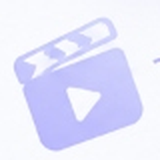
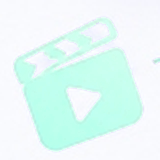
Update review page theme color to website cyan blue (#04ADFE) matching navigation bar

diff --git a/src/styles/index.css b/src/styles/index.css
@@ -8045,7 +8045,7 @@ body.offers-modal-active {
    EXACT REVIEWS SHOWCASE REDESIGN (IMAGE 2 MATCH)
    ========================================================================== */
 .review-exact-showcase-section {
-  background: linear-gradient(180deg, #f9fafd 0%, #f1f4ff 50%, #f4f8fd 100%);
+  background: linear-gradient(180deg, #f8fcff 0%, #eef8ff 50%, #f4faff 100%);
   padding: 4.5rem 0 4rem;
   position: relative;
   overflow: hidden;
@@ -8058,9 +8058,9 @@ body.offers-modal-active {
   inset: 0;
   pointer-events: none;
   background: 
-    radial-gradient(circle at 10% 20%, rgba(196, 181, 253, 0.4) 0%, transparent 45%),
-    radial-gradient(circle at 90% 15%, rgba(167, 139, 250, 0.35) 0%, transparent 45%),
-    radial-gradient(circle at 50% 90%, rgba(199, 210, 254, 0.4) 0%, transparent 50%);
+    radial-gradient(circle at 10% 20%, rgba(4, 173, 254, 0.18) 0%, transparent 48%),
+    radial-gradient(circle at 90% 15%, rgba(56, 189, 248, 0.22) 0%, transparent 48%),
+    radial-gradient(circle at 50% 90%, rgba(186, 230, 253, 0.45) 0%, transparent 55%);
 }
 
 .review-exact-container {
@@ -8111,7 +8111,7 @@ body.offers-modal-active {
 }
 
 .review-hero-poster-wrap:focus-visible {
-  box-shadow: 0 0 0 3px #6366f1;
+  box-shadow: 0 0 0 3px #04ADFE;
 }
 
 .review-exact-phone-img {
@@ -8119,7 +8119,7 @@ body.offers-modal-active {
   height: 100%;
   display: block;
   object-fit: contain;
-  filter: drop-shadow(0 14px 28px rgba(99, 102, 241, 0.14));
+  filter: drop-shadow(0 14px 28px rgba(4, 173, 254, 0.18));
   pointer-events: none;
   user-select: none;
 }
@@ -8148,7 +8148,7 @@ body.offers-modal-active {
   position: absolute;
   inset: -6px;
   border-radius: 50%;
-  background: rgba(99, 102, 241, 0.32);
+  background: rgba(4, 173, 254, 0.35);
   animation: reviewPlayPulse 2.2s infinite ease-out;
   pointer-events: none;
 }
@@ -8167,7 +8167,7 @@ body.offers-modal-active {
   display: flex;
   align-items: center;
   justify-content: center;
-  box-shadow: 0 8px 24px rgba(99, 102, 241, 0.38), 0 2px 8px rgba(15, 23, 42, 0.12);
+  box-shadow: 0 8px 24px rgba(4, 173, 254, 0.38), 0 2px 8px rgba(15, 23, 42, 0.12);
   padding-left: 3px;
   position: relative;
   z-index: 1;
@@ -8175,8 +8175,8 @@ body.offers-modal-active {
 }
 
 .review-hero-poster-wrap:hover .review-play-icon-glow {
-  box-shadow: 0 10px 30px rgba(99, 102, 241, 0.5), 0 4px 12px rgba(15, 23, 42, 0.16);
-  background: #faf5ff;
+  box-shadow: 0 10px 30px rgba(4, 173, 254, 0.5), 0 4px 12px rgba(15, 23, 42, 0.16);
+  background: #f0f9ff;
 }
 
 /* Active Video Container - Guarantees zero layout shift */
@@ -8188,7 +8188,7 @@ body.offers-modal-active {
   border-radius: 28px;
   overflow: hidden;
   background: #0f172a;
-  box-shadow: 0 20px 40px rgba(99, 102, 241, 0.25), 0 0 0 2px rgba(99, 102, 241, 0.25);
+  box-shadow: 0 20px 40px rgba(4, 173, 254, 0.25), 0 0 0 2px rgba(4, 173, 254, 0.35);
   opacity: 0;
   visibility: hidden;
   pointer-events: none;
@@ -8345,7 +8345,7 @@ body.offers-modal-active {
 }
 
 .review-title-gradient {
-  background: linear-gradient(135deg, #7c3aed 0%, #6366f1 50%, #8b5cf6 100%);
+  background: linear-gradient(135deg, #04ADFE 0%, #029CE6 45%, #0284c7 100%);
   -webkit-background-clip: text;
   -webkit-text-fill-color: transparent;
   display: block;
@@ -8418,7 +8418,7 @@ body.offers-modal-active {
   height: auto;
   display: block;
   object-fit: contain;
-  filter: drop-shadow(0 10px 24px rgba(99, 102, 241, 0.1));
+  filter: drop-shadow(0 10px 24px rgba(4, 173, 254, 0.18));
 }
 
 .review-exact-carousel-wrap {
@@ -8457,10 +8457,10 @@ body.offers-modal-active {
 
 .review-carousel-arrow:hover {
   background: #ffffff;
-  border-color: #7c3aed;
-  color: #7c3aed;
+  border-color: #04ADFE;
+  color: #04ADFE;
   transform: scale(1.1);
-  box-shadow: 0 8px 24px rgba(124, 58, 237, 0.2);
+  box-shadow: 0 8px 24px rgba(4, 173, 254, 0.25);
 }
 
 .review-card-item {
@@ -8476,12 +8476,12 @@ body.offers-modal-active {
 
 .review-card-item:hover {
   transform: translateY(-3px);
-  box-shadow: 0 10px 28px rgba(124, 58, 237, 0.12);
+  box-shadow: 0 10px 28px rgba(4, 173, 254, 0.16);
 }
 
 .review-card-item.is-featured {
-  border: 2px solid #7c3aed;
-  box-shadow: 0 12px 36px rgba(124, 58, 237, 0.18);
+  border: 2px solid #04ADFE;
+  box-shadow: 0 12px 36px rgba(4, 173, 254, 0.22);
   transform: translateY(-4px);
 }
 
@@ -8506,11 +8506,11 @@ body.offers-modal-active {
   width: 28px;
   height: 28px;
   border-radius: 8px;
-  background: #7c3aed;
+  background: #04ADFE;
   display: flex;
   align-items: center;
   justify-content: center;
-  box-shadow: 0 2px 8px rgba(124, 58, 237, 0.4);
+  box-shadow: 0 2px 8px rgba(4, 173, 254, 0.45);
 }
 
 .review-card-body {
@@ -8543,7 +8543,7 @@ body.offers-modal-active {
   height: 38px;
   border-radius: 50%;
   object-fit: cover;
-  border: 2px solid #7c3aed;
+  border: 2px solid #04ADFE;
   flex-shrink: 0;
 }
 
@@ -8585,7 +8585,7 @@ body.offers-modal-active {
   width: 8px;
   height: 8px;
   border-radius: 50%;
-  background: #c4b5fd;
+  background: #bae6fd;
   cursor: pointer;
   transition: all 0.25s ease;
 }
@@ -8593,7 +8593,7 @@ body.offers-modal-active {
 .review-carousel-dots .dot.active {
   width: 22px;
   border-radius: 9999px;
-  background: #4f46e5;
+  background: #04ADFE;
 }
 
 .review-exact-btn-wrap {
@@ -8605,7 +8605,7 @@ body.offers-modal-active {
 }
 
 .btn-review-showcase {
-  background: linear-gradient(135deg, #6366f1 0%, #4f46e5 50%, #2563eb 100%);
+  background: linear-gradient(135deg, #04ADFE 0%, #0294DC 50%, #0284c7 100%);
   color: #ffffff !important;
   font-family: var(--font-heading);
   font-size: 0.88rem;
@@ -8617,13 +8617,13 @@ body.offers-modal-active {
   align-items: center;
   gap: 10px;
   text-decoration: none;
-  box-shadow: 0 8px 24px rgba(79, 70, 229, 0.35);
+  box-shadow: 0 8px 24px rgba(4, 173, 254, 0.35);
   transition: all 0.2s ease;
 }
 
 .btn-review-showcase:hover {
   transform: translateY(-2px);
-  box-shadow: 0 12px 28px rgba(79, 70, 229, 0.45);
+  box-shadow: 0 12px 28px rgba(4, 173, 254, 0.48);
 }
 
 .btn-play-icon {

diff --git a/src/scripts/views/reviewsView.js b/src/scripts/views/reviewsView.js
@@ -187,7 +187,7 @@ export function renderReviewsShowcaseSection(options = {}) {
               <div class="review-play-click-target" title="Click to play wholesale unboxing video">
                 <span class="review-play-pulse-wave"></span>
                 <span class="review-play-icon-glow">
-                  <svg width="22" height="22" viewBox="0 0 24 24" fill="#6366f1" aria-hidden="true">
+                  <svg width="22" height="22" viewBox="0 0 24 24" fill="#04ADFE" aria-hidden="true">
                     <polygon points="7 4 19 12 7 20 7 4"></polygon>
                   </svg>
                 </span>
@@ -248,11 +248,11 @@ export function renderReviewsShowcaseSection(options = {}) {
             <span class="review-title-gradient">
               Real Stories.
               <svg class="review-title-swoosh" viewBox="0 0 170 16" fill="none" xmlns="http://www.w3.org/2000/svg" aria-hidden="true">
-                <path d="M3 12C38 3 132 2 167 12" stroke="url(#purpleSwooshGrad-${idPrefix})" stroke-width="4.5" stroke-linecap="round"/>
+                <path d="M3 12C38 3 132 2 167 12" stroke="url(#blueSwooshGrad-${idPrefix})" stroke-width="4.5" stroke-linecap="round"/>
                 <defs>
-                  <linearGradient id="purpleSwooshGrad-${idPrefix}" x1="0%" y1="0%" x2="100%" y2="0%">
-                    <stop offset="0%" stop-color="#7c3aed"/>
-                    <stop offset="100%" stop-color="#4f46e5"/>
+                  <linearGradient id="blueSwooshGrad-${idPrefix}" x1="0%" y1="0%" x2="100%" y2="0%">
+                    <stop offset="0%" stop-color="#04ADFE"/>
+                    <stop offset="100%" stop-color="#0284C7"/>
                   </linearGradient>
                 </defs>
               </svg>
@@ -261,7 +261,7 @@ export function renderReviewsShowcaseSection(options = {}) {
 
           <!-- Subtitle -->
           <p class="review-exact-subtitle">
-            Hear from our happy customers who trust <strong style="color: #7c3aed; font-weight: 800;">ShopNest</strong> for their wholesale needs.
+            Hear from our happy customers who trust <strong style="color: #04ADFE; font-weight: 800;">ShopNest</strong> for their wholesale needs.
           </p>
 
           <!-- 3 Feature Badges -->
@@ -353,10 +353,10 @@ export function renderReviewsShowcaseSection(options = {}) {
         <span class="dot" data-index="2"></span>
       </div>
 
-      <!-- Bottom Action Pill with Side Purple Rays Doodles -->
+      <!-- Bottom Action Pill with Side Blue Rays Doodles -->
       ${showButton ? `
         <div class="review-exact-btn-wrap">
-          <svg class="review-btn-ray-left" width="28" height="24" viewBox="0 0 28 24" fill="none" stroke="#6366f1" stroke-width="2.6" stroke-linecap="round" aria-hidden="true">
+          <svg class="review-btn-ray-left" width="28" height="24" viewBox="0 0 28 24" fill="none" stroke="#04ADFE" stroke-width="2.6" stroke-linecap="round" aria-hidden="true">
             <line x1="2" y1="12" x2="16" y2="12"></line>
             <line x1="6" y1="4" x2="18" y2="8"></line>
             <line x1="6" y1="20" x2="18" y2="16"></line>
@@ -375,7 +375,7 @@ export function renderReviewsShowcaseSection(options = {}) {
             </svg>
           </a>
 
-          <svg class="review-btn-ray-right" width="28" height="24" viewBox="0 0 28 24" fill="none" stroke="#6366f1" stroke-width="2.6" stroke-linecap="round" aria-hidden="true">
+          <svg class="review-btn-ray-right" width="28" height="24" viewBox="0 0 28 24" fill="none" stroke="#04ADFE" stroke-width="2.6" stroke-linecap="round" aria-hidden="true">
             <line x1="26" y1="12" x2="12" y2="12"></line>
             <line x1="22" y1="4" x2="10" y2="8"></line>
             <line x1="22" y1="20" x2="10" y2="16"></line>
@@ -516,7 +516,7 @@ export function renderReviewsView() {
           <nav class="breadcrumbs" aria-label="Breadcrumb" style="margin: 0;">
             <a href="#/" style="color: #64748b; text-decoration: none;">Home</a>
             <span class="separator" style="color: #cbd5e1; margin: 0 6px;">/</span>
-            <span class="current" style="color: #7c3aed; font-weight: 800;">Retailer Reviews</span>
+            <span class="current" style="color: #04ADFE; font-weight: 800;">Retailer Reviews</span>
           </nav>
         </div>
       </div>

diff --git a/dist/index.html b/dist/index.html
@@ -8,8 +8,8 @@
   <link rel="preconnect" href="https://fonts.googleapis.com">
   <link rel="preconnect" href="https://fonts.gstatic.com" crossorigin>
   <link href="https://fonts.googleapis.com/css2?family=Caveat:wght@600&family=Inter:wght@400;500;600;700&family=Manrope:wght@600;700;800&display=swap" rel="stylesheet">
-  <script type="module" crossorigin src="/joli-enterprises/assets/index-Cm8lagI8.js"></script>
-  <link rel="stylesheet" crossorigin href="/joli-enterprises/assets/index-D_J4VUcU.css">
+  <script type="module" crossorigin src="/joli-enterprises/assets/index-CXgPRmDk.js"></script>
+  <link rel="stylesheet" crossorigin href="/joli-enterprises/assets/index-CXIV_T3t.css">
 </head>
 <body class="is-landing-page">
   <div id="app">
